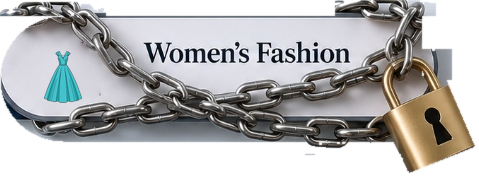
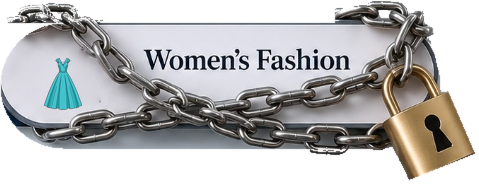
fix(ui): remove extra white overflow on Women's Fashion pill right edge

diff --git a/src/context/AppContext.jsx b/src/context/AppContext.jsx
@@ -198,7 +198,7 @@ export function AppProvider({ children }) {
       footer: { ...DEFAULT_CMS_DATA.footer, ...(data.footer || {}) },
       seo: seoData,
       mediaLibrary: mediaLib,
-      isWomenLocked: typeof data.isWomenLocked === 'boolean' ? data.isWomenLocked : false
+      isWomenLocked: typeof data.isWomenLocked === 'boolean' ? data.isWomenLocked : true
     };
 
     return updated;
@@ -291,12 +291,14 @@ export function AppProvider({ children }) {
           const clean = getSanitizedCms(data.content);
           setCmsData(clean);
           localStorage.setItem('ashub_homepage_cms', JSON.stringify(clean));
-          if (typeof clean.isWomenLocked === 'boolean') {
-            setIsWomenSectionLockedState(clean.isWomenLocked);
-            localStorage.setItem('asmalabel_women_locked', clean.isWomenLocked ? 'true' : 'false');
-            if (clean.isWomenLocked && activeCategory === 'fashion') {
-              setActiveCategory('tailoring');
-            }
+          const localStored = localStorage.getItem('asmalabel_women_locked');
+          const isLocked = localStored !== null ? localStored === 'true' : true;
+          setIsWomenSectionLockedState(isLocked);
+          if (localStored === null) {
+            localStorage.setItem('asmalabel_women_locked', 'true');
+          }
+          if (isLocked && activeCategory === 'fashion') {
+            setActiveCategory('tailoring');
           }
         }
       } catch { /* use local */ }

diff --git a/src/utils/cmsDefaults.js b/src/utils/cmsDefaults.js
@@ -194,6 +194,7 @@ export const DEFAULT_CMS_DATA = {
   },
 
   mediaLibrary: [],
+  isWomenLocked: true,
 };
 
 export const normalizeCategoryKey = (str) => {
